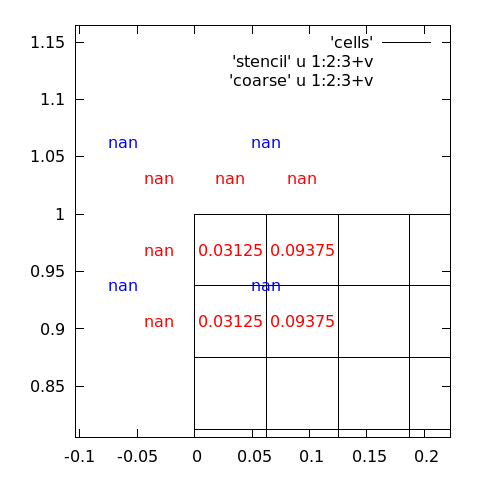
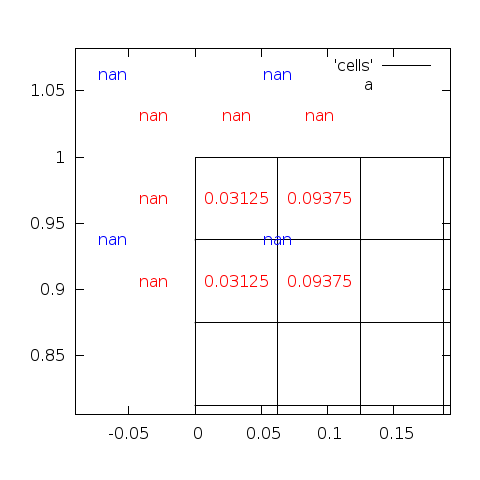
Improved FPE debugging

diff --git a/src/grid/multigrid-common.h b/src/grid/multigrid-common.h
@@ -162,31 +162,41 @@ void multigrid_debug (Point point)
   cartesian_debug (point);
 
   if (point.level > 0) {
-    FILE * fp = fopen ("coarse", "w");
+    char name[80] = "coarse";
+    if (pid() > 0)
+      sprintf (name, "coarse-%d", pid());
+    FILE * fp = fopen (name, "w");
     double xc = x - child.x*Delta/2., yc = y - child.y*Delta/2.;
     for (int k = 0; k <= 1; k++)
       for (int l = 0; l <= 1; l++) {
-	fprintf (fp, "%g %g", xc + k*child.x*Delta*2., yc + l*child.y*Delta*2.);
 	for (scalar v in all)
-	  fprintf (fp, " %g", coarse(v,k*child.x,l*child.y));
+	  fprintf (fp, "%g %g %g ", 
+		   xc + k*child.x*Delta*2. + v.d.x*Delta, 
+		   yc + l*child.y*Delta*2. + v.d.y*Delta,
+		   coarse(v,k*child.x,l*child.y));
 	fputc ('\n', fp);
       }
     fclose (fp);
-    fputs (", 'coarse' u 1:2:3+v w labels tc lt 3", stderr);
+    fprintf (stderr, ", '%s' u 1+3*v:2+3*v:3+3*v w labels tc lt 3 t ''", name);
   }
 
-  if (point.level < depth()) {
-    FILE * fp = fopen ("fine", "w");
+  if (is_coarse()) {
+    char name[80] = "fine";
+    if (pid() > 0)
+      sprintf (name, "fine-%d", pid());
+    FILE * fp = fopen (name, "w");
     double xf = x - Delta/4., yf = y - Delta/4.;
-    for (int k = 0; k <= 1; k++)
-      for (int l = 0; l <= 1; l++) {
-	fprintf (fp, "%g %g", xf + k*Delta/2., yf + l*Delta/2.);
+    for (int k = 0; k <= 2; k++)
+      for (int l = 0; l <= 2; l++) {
 	for (scalar v in all)
-	  fprintf (fp, " %g", fine(v,k,l));
+	  fprintf (fp, "%g %g %g ", 
+		   xf + k*Delta/2. + v.d.x*Delta/4., 
+		   yf + l*Delta/2. + v.d.y*Delta/4.,
+		   fine(v,k,l));
 	fputc ('\n', fp);
       }
     fclose (fp);
-    fputs (", 'fine' u 1:2:3+v w labels tc lt 2", stderr);
+    fprintf (stderr, ", '%s' u 1+3*v:2+3*v:3+3*v w labels tc lt 2 t ''", name);
   }
 }
 

diff --git a/src/grid/cartesian-common.h b/src/grid/cartesian-common.h
@@ -408,30 +408,43 @@ void output_cells (FILE * fp)
 
 void cartesian_debug (Point point)
 {
-  FILE * fp = fopen ("cells", "w");
+  char name[80] = "cells";
+  if (pid() > 0)
+    sprintf (name, "cells-%d", pid());
+  FILE * fp = fopen (name, "w");
   output_cells (fp);
   fclose (fp);
 
-  fp = fopen ("stencil", "w");
+  char stencil[80] = "stencil";
+  if (pid() > 0)
+    sprintf (stencil, "stencil-%d", pid());
+  fp = fopen (stencil, "w");
+  for (scalar v in all)
+    fprintf (fp, "x y %s ", v.name);
+  fputc ('\n', fp);
   for (int k = -1; k <= 1; k++)
     for (int l = -1; l <= 1; l++) {
-      fprintf (fp, "%g %g", x + k*Delta, y + l*Delta);
-      if (allocated (k,l)) {
-	for (scalar v in all)
-	  fprintf (fp, " %g", v[k,l]);
+      for (scalar v in all) {
+	fprintf (fp, "%g %g ", 
+		 x + k*Delta + v.d.x*Delta/2., 
+		 y + l*Delta + v.d.y*Delta/2.);
+	if (allocated(k,l))
+	  fprintf (fp, "%g ", v[k,l]);
+	else
+	  fputs ("n/a ", fp);
       }
-      else
-	for (scalar v in all)
-	  fprintf (fp, " n/a");
       fputc ('\n', fp);
     }
   fclose (fp);
 
-  fputs ("Last point stencils can be displayed using e.g.\n"
-	 "gnuplot> v=0\n"
-	 "gnuplot> plot 'cells' w l lc 0, "
-	 "'stencil' u 1:2:3+v w labels tc lt 1",
-	 stderr);
+  fprintf (stderr, 
+	   "Last point stencils can be displayed using (in gnuplot)\n"
+	   "  set size ratio -1\n"
+	   "  set key outside\n"
+	   "  v=0\n"
+	   "  plot '%s' w l lc 0, "
+	   "'%s' u 1+3*v:2+3*v:3+3*v w labels tc lt 1 title columnhead(3+3*v)",
+	   name, stencil);
 }
 
 void cartesian_methods()

diff --git a/src/grid/fpe.h b/src/grid/fpe.h
@@ -2,15 +2,24 @@
 
 @include <signal.h>
 
-static Point last_point;
-
-static void caught_fpe (int sig)
+static void caught_abort (int sig)
 {
-  fprintf (stderr, "Caught signal %d (Floating Point Exception)\n", sig);
+  fprintf (stderr, "Caught signal %d (Aborted)\n", sig);
   if (last_point.level >= 0) {
     debug (last_point);
     fputc ('\n', stderr);
   }
+}
+
+static void caught_fpe (int sig)
+{
+  fprintf (stderr, "Caught signal %d (Floating Point Exception)\n", sig);
+  abort();
+}
+
+static void caught_segfault (int sig)
+{
+  fprintf (stderr, "Caught signal %d (Segmentation Fault)\n", sig);
   abort();
 }
 
@@ -21,5 +30,10 @@ void catch_fpe (void)
   sigemptyset (&act.sa_mask);
   act.sa_flags = 0;
   last_point.level = -1;
-  sigaction (8, &act, NULL);
+  sigaction (8, &act, NULL); // FPE
+  act.sa_handler = caught_segfault;
+  sigaction (11, &act, NULL); // Segfault
+  act.sa_handler = caught_abort;
+  act.sa_flags = SA_RESETHAND;
+  sigaction (6, &act, NULL); // Abort
 }

diff --git a/src/grid/multigrid.h b/src/grid/multigrid.h
@@ -110,6 +110,8 @@ static size_t _size (size_t l)
 @def foreach_boundary(d,corners) foreach_boundary_level(d,point.depth,corners) @
 @def end_foreach_boundary() end_foreach_boundary_level() @
 
+@define is_coarse() (point.level < depth())
+
 @def foreach_fine_to_coarse() {
   int ig = 0, jg = 0; NOT_UNUSED(ig); NOT_UNUSED(jg);
   Point _p = *((Point *)grid);

diff --git a/src/common.h b/src/common.h
@@ -44,7 +44,7 @@
 
 @define NOT_UNUSED(x) (void)(x)
 
-@define VARIABLES
+@define VARIABLES      _CATCH;
 @define val(a,k,l)     data(k,l)[a]
 
 // the grid
@@ -253,6 +253,7 @@ int _ig[nboundary] = {1,-1,0,0},
 @define neumann_homogeneous()   (val(_s,0,0))
 
 typedef struct _Point Point;
+static Point last_point;
 
 // methods for each scalar
 

diff --git a/src/grid/quadtree.h b/src/grid/quadtree.h
@@ -24,6 +24,7 @@ enum {
 #define is_ghost(cell)   ((cell).flags & fghost)
 #define is_refined(cell) (is_active(cell) && !is_leaf(cell))
 #define is_corner(cell)  (stage == _CORNER)
+#define is_coarse()      (!is_leaf(cell))
 
 // Caches
 
